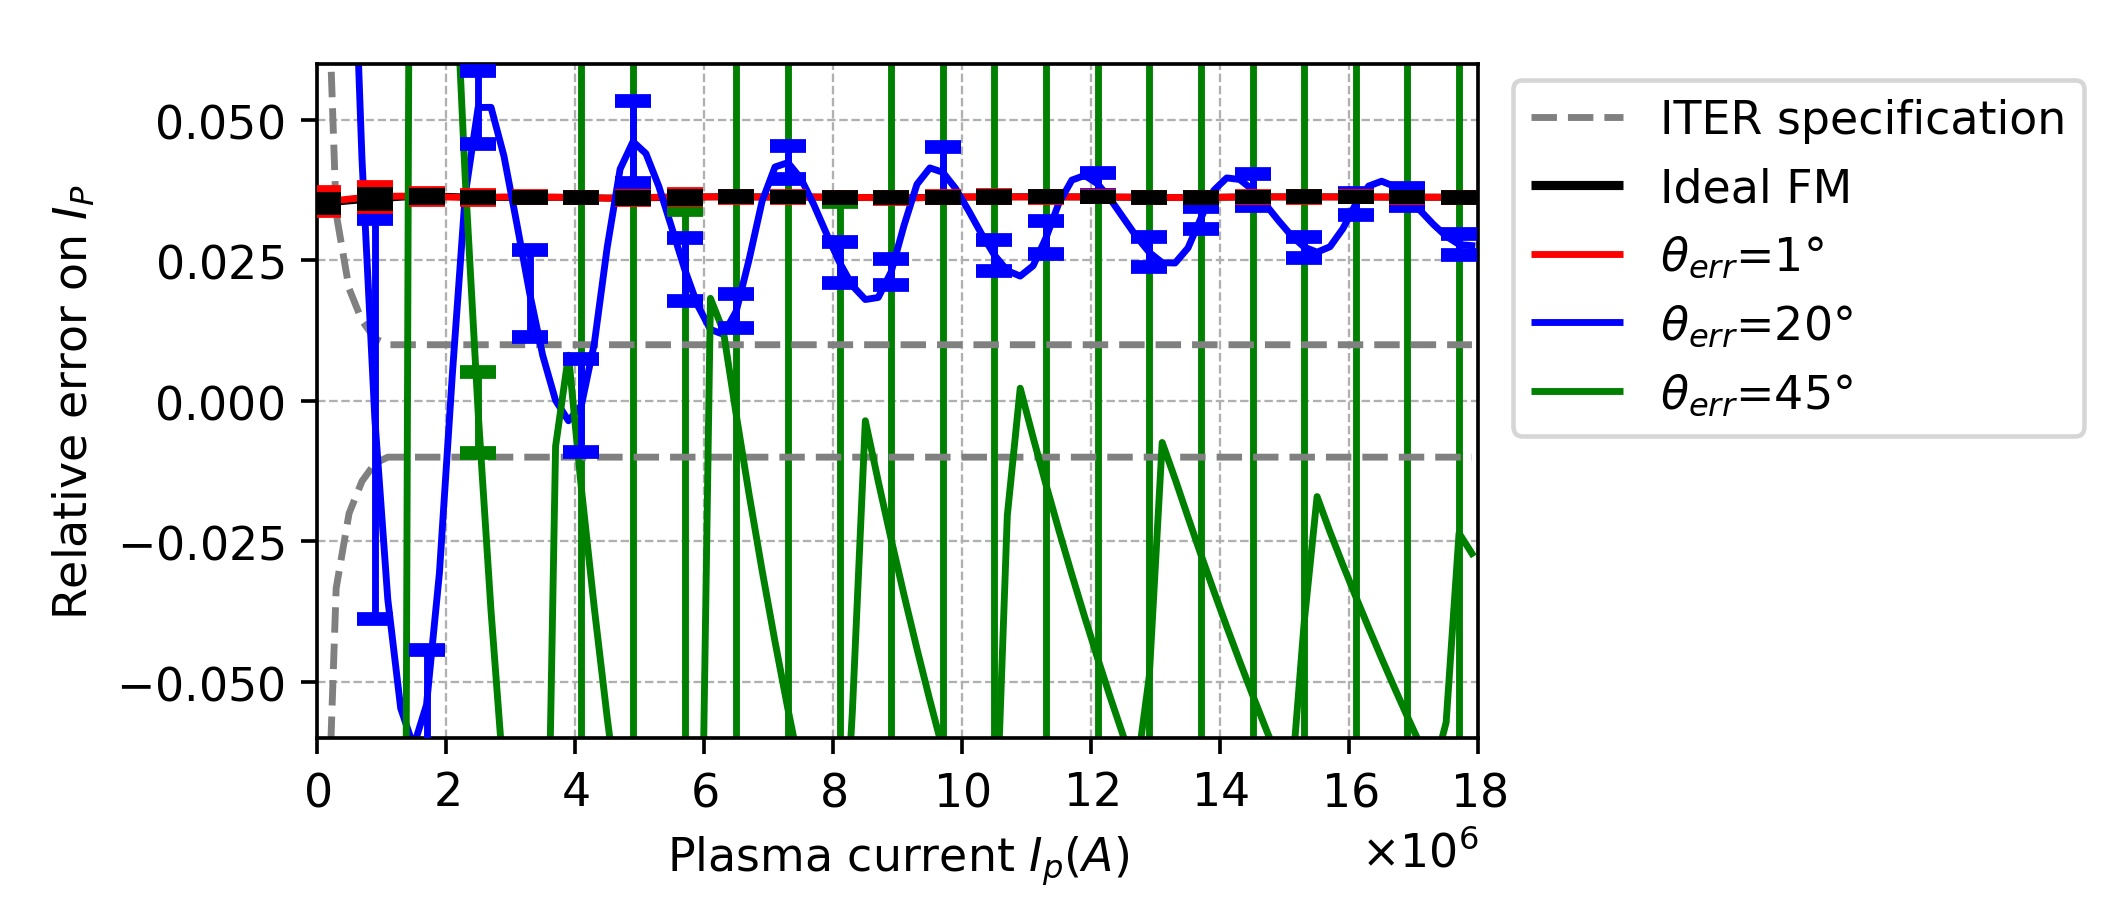
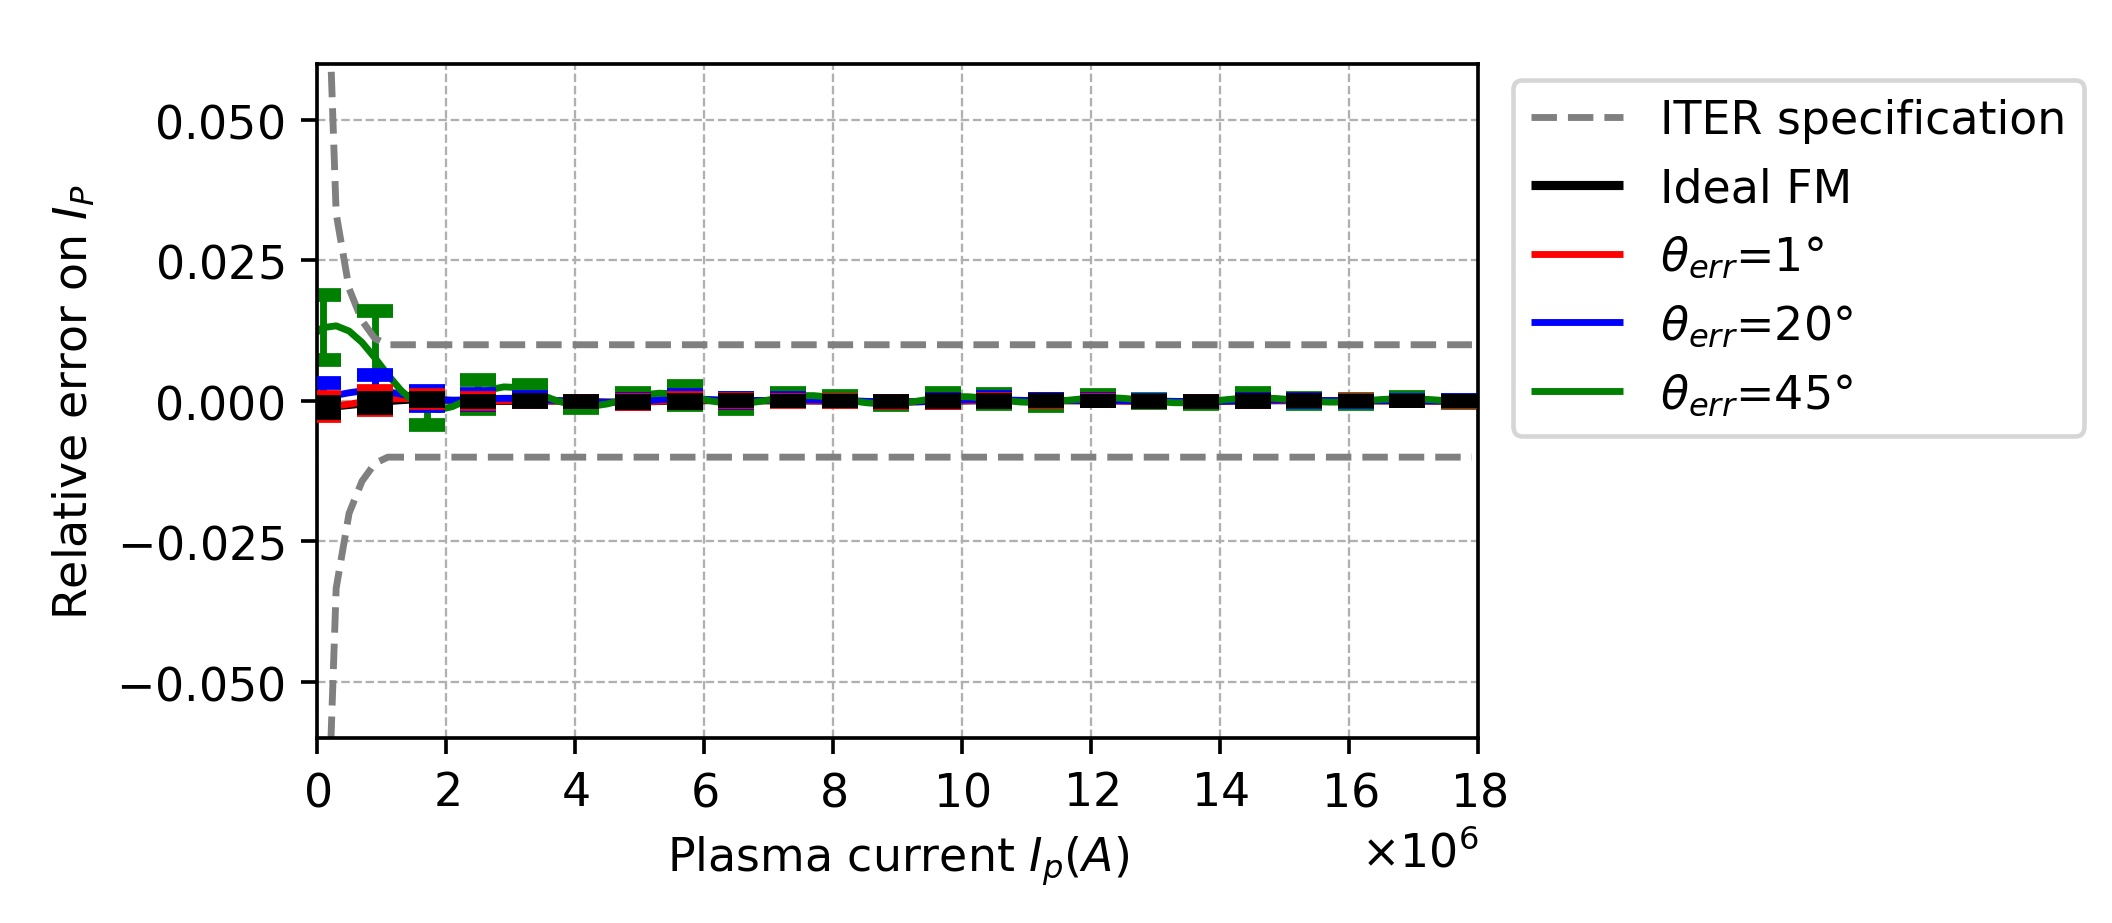
MFB 추가

Changed region(s): [[0.125, 0.0607, 0.7188, 0.8191]]

diff --git a/FOCS_SIM_220501.py b/FOCS_SIM_220501.py
@@ -49,7 +49,7 @@ def cm_to_rgba_tuple(colors,alpha=1):
     return tmp
 
 if __name__ == '__main__':
-    mode = 0
+    mode = 2
     LB = 0.009
     SP = 0.0048
     # dz = SP / 1000
@@ -58,19 +58,19 @@ if __name__ == '__main__':
     len_ls = 28  # sensing fiber
     spunfiber = SPUNFIBER(LB, SP, dz, len_lf, len_ls)
 
-    # strfile1 = 'Lobi_45FM_errdeg1x5_220614.csv'
-    # strfile2 = 'Lobi_46FM_errdeg1x5_220614.csv'
+    strfile1 = 'Lobi_45FM_errdeg1x5_220614.csv'
+    strfile2 = 'Lobi_46FM_errdeg1x5_220614.csv'
     # strfile3 = 'Lobi_65FM_errdeg1x5_220614.csv'
     # strfile4 = 'Lobi_0FM_errdeg1x5_220614.csv'
-    # strfile1 = 'Lobi_47FM_errdeg1x5_220614.csv'
-    # strfile2 = 'Lobi_50FM_errdeg1x5_220614.csv'
-    # strfile3 = 'Lobi_55FM_errdeg1x5_220614.csv'
+    #strfile1= 'Lobi_47FM_errdeg1x5_220614.csv'
+    strfile3 = 'Lobi_50FM_errdeg1x5_220614.csv'
+    strfile4 = 'Lobi_55FM_errdeg1x5_220614.csv'
     # strfile4 = 'Lobi_60FM_errdeg1x5_220614.csv'
 
-    strfile1 = 'Hibi_45FM_errdeg1x5_220614.csv'
-    strfile2 = 'Hibi_46FM_errdeg1x5_220614.csv'
-    strfile3 = 'Hibi_47FM_errdeg1x5_220614.csv'
-    strfile4 = 'Hibi_50FM_errdeg1x5_2206014.csv'
+    # strfile1 = 'Hibi_45FM_errdeg1x5_220614.csv'
+    # strfile2 = 'Hibi_46FM_errdeg1x5_220614.csv'
+    # strfile3 = 'Hibi_47FM_errdeg1x5_220614.csv'
+    # strfile4 = 'Hibi_50FM_errdeg1x5_2206014.csv'
 
     # strfile1 = 'Lobi_45FM_errdeg1x5_220601.csv'
     # strfile2 = 'Lobi_46FM_errdeg1x5_220601.csv'
@@ -211,7 +211,9 @@ if __name__ == '__main__':
 
                 if nn == 0:
                     dic_err['V_I'] = V_I
-                dic_err[str(nn)] = cal_error_fromStocks(V_I, S, V_custom=V2*0.965)
+
+                # dic_err[str(nn)] = cal_error_fromStocks(V_I, S, V_custom=V2*0.965)
+                dic_err[str(nn)] = cal_error_fromStocks(V_I, S, V_custom=V2)
                 c = np.array([None, None, None])
                 nn += 1
                 # if nn > 0:
